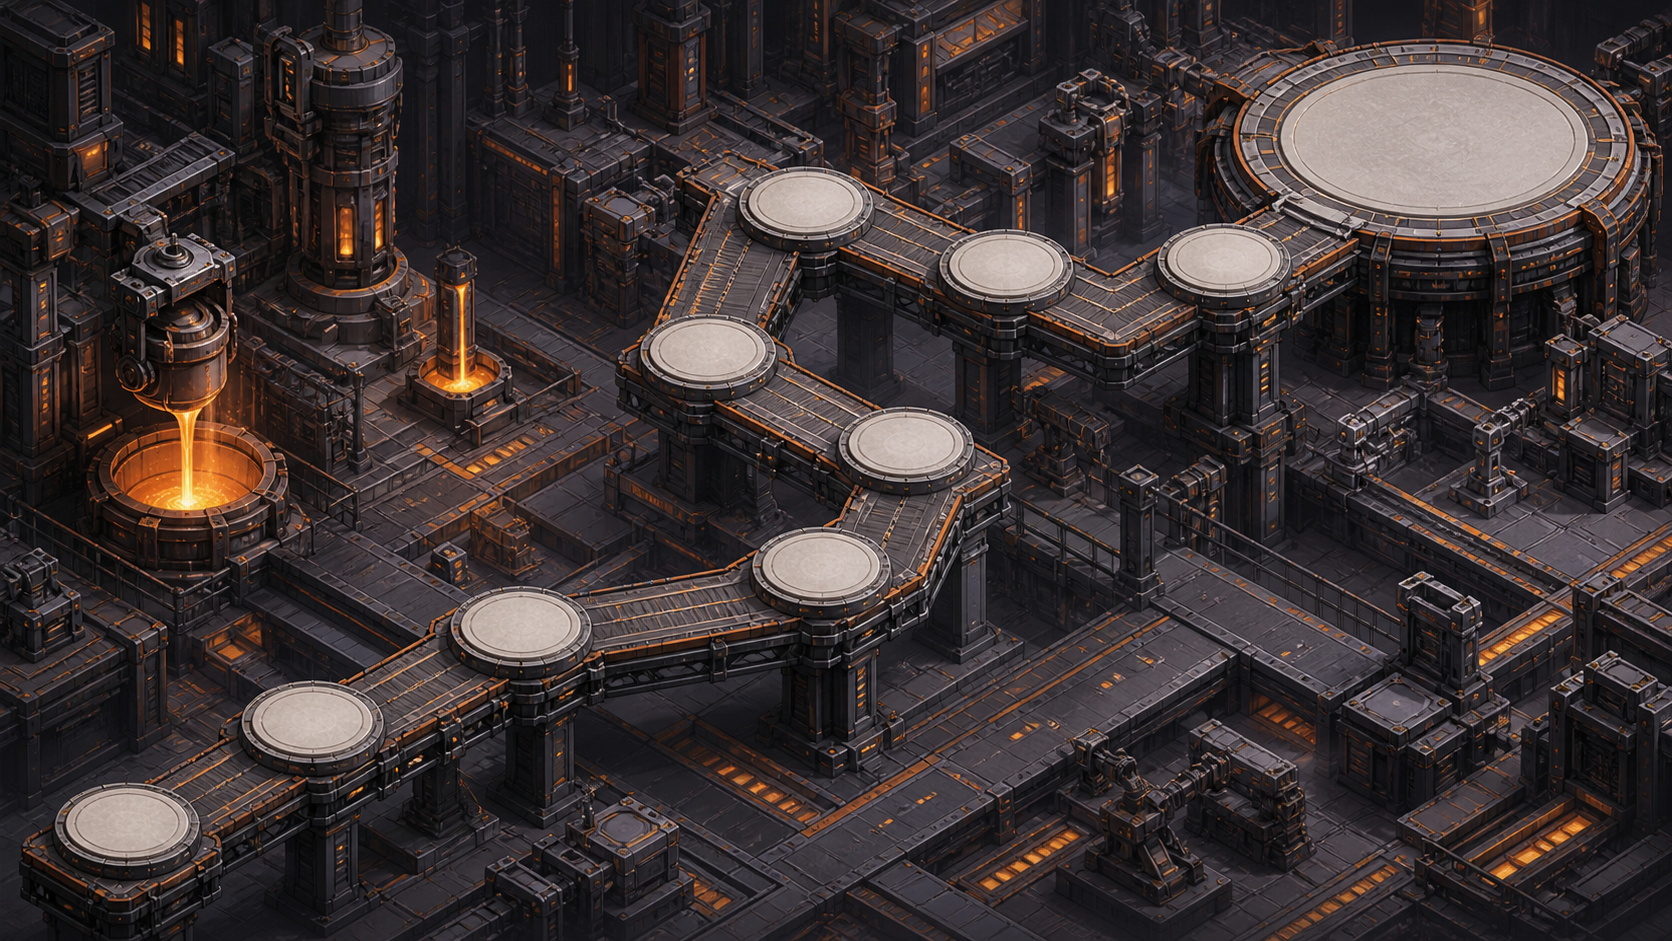
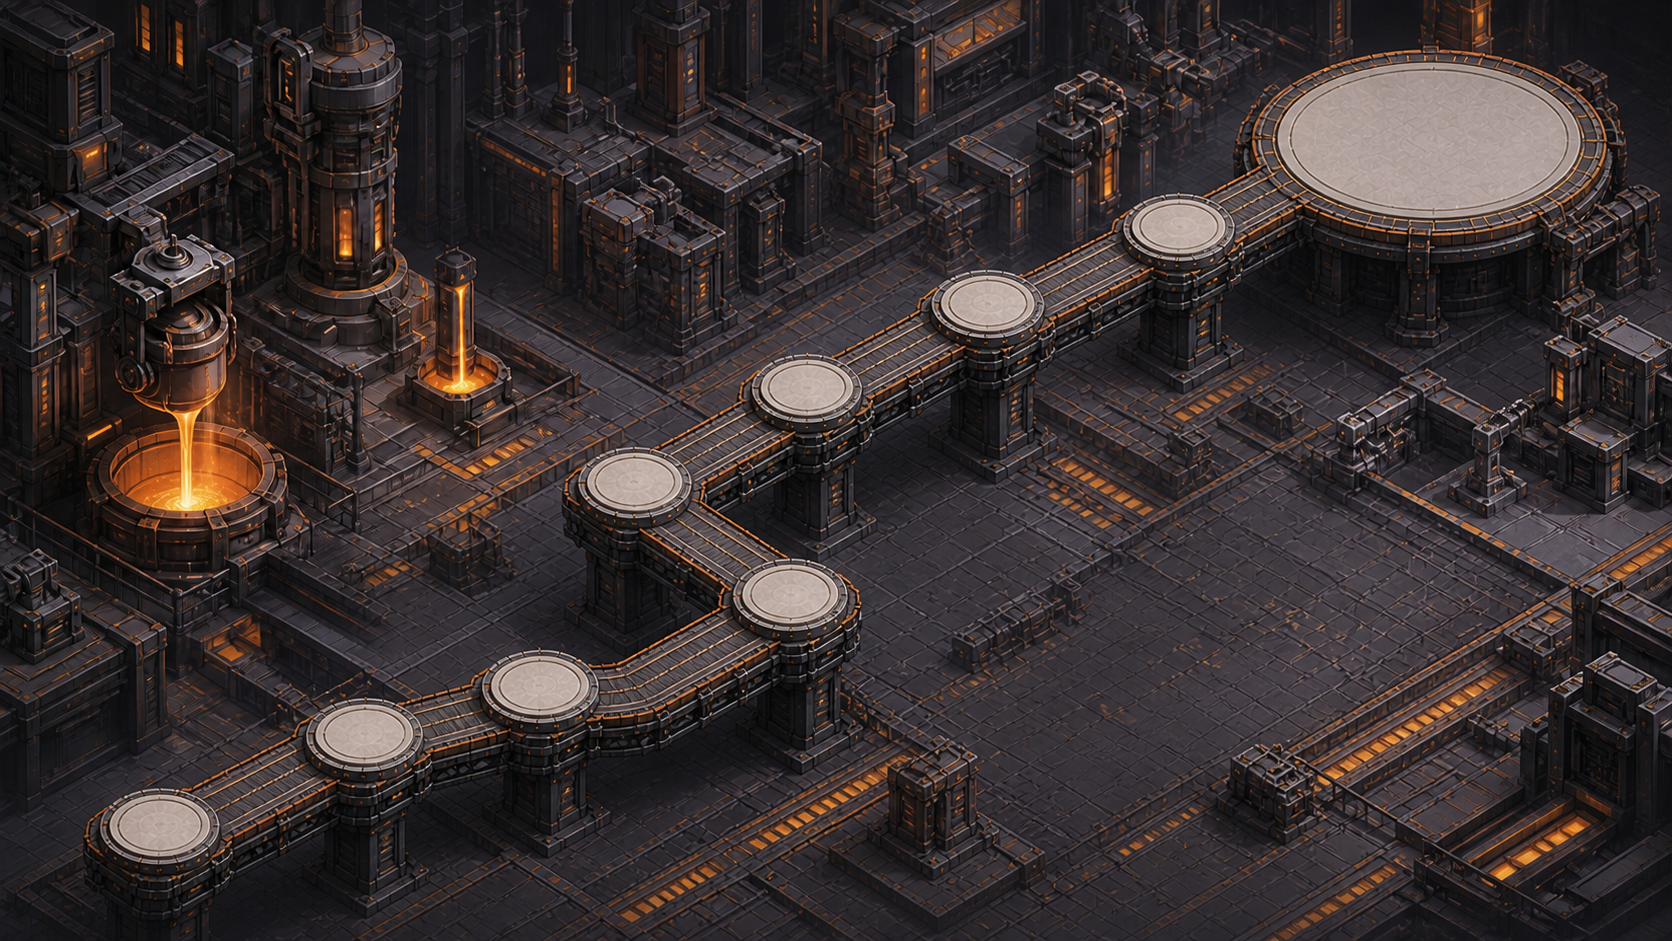
fix(us07): align campaign maps with level progression

diff --git a/src/components/campaign/campaign-map.tsx b/src/components/campaign/campaign-map.tsx
@@ -17,13 +17,13 @@ const WORLD_MAPS: Record<string, string> = Object.fromEntries(
 const points = (pairs: [number, number][]): MapPoint[] =>
   pairs.map(([left, top]) => ({ left, top }));
 const WORLD_POINTS: Record<string, MapPoint[]> = {
-  "bachelor-1": points([[14,82],[27,72],[37,63],[48,54],[58,44],[71,30],[87,17]]),
-  "bachelor-2": points([[12,81],[22,72],[33,63],[43,55],[53,48],[62,40],[73,31],[85,16]]),
-  "bachelor-3": points([[16,80],[30,84],[43,73],[56,66],[67,56],[54,43],[42,49],[57,34],[82,16]]),
-  "bachelor-4": points([[9,86],[18,76],[31,67],[48,59],[54,47],[42,37],[48,22],[61,28],[74,25],[87,14]]),
-  "bachelor-5": points([[10,83],[22,70],[33,62],[43,56],[53,49],[62,43],[70,36],[76,29],[82,23],[87,17],[91,13]]),
-  "master-1": points([[12,83],[27,86],[42,76],[57,75],[71,68],[63,57],[51,51],[37,57],[26,59],[39,43],[52,33],[82,15]]),
-  "master-2": points([[12,84],[25,84],[35,75],[46,68],[56,61],[67,59],[75,50],[63,46],[50,42],[38,52],[29,61],[48,34],[84,16]]),
+  "bachelor-1": points([[14.5,82.5],[26.7,70.3],[38.6,59.1],[51.8,49.1],[63.9,38.1],[86.7,18.9]]),
+  "bachelor-2": points([[12.1,78.7],[24,69.4],[35.2,61],[46.3,52.1],[56.2,43.6],[66.4,35.4],[81.9,22.8]]),
+  "bachelor-3": points([[11.5,89],[21.5,80.9],[32.5,71.6],[41.9,61.9],[50.5,52],[59.8,41.9],[67.2,30.9],[83.4,15.6]]),
+  "bachelor-4": points([[8.4,87.1],[21.6,77.9],[32.6,72.6],[46.8,62.8],[38,51.4],[48.3,41.5],[59,32],[70.2,23.5],[85.5,13.8]]),
+  "bachelor-5": points([[16,80],[21.9,67.7],[30.7,58.3],[40.8,53.3],[50.2,61.5],[59.7,57.2],[54.1,45.6],[58.7,34.9],[67.6,28.4],[85.5,18.5]]),
+  "master-1": points([[6.4,85.9],[13.4,78.4],[21.1,70.6],[28.5,63.2],[36,56.2],[43.2,50.3],[50.4,44.4],[57.8,38.3],[65.4,32.2],[73.1,26.4],[86.4,16.7]]),
+  "master-2": points([[4.8,92.7],[10.5,83.5],[17.5,75.4],[24.2,67.8],[31.6,61.1],[38.9,55.3],[46.6,50],[53.9,44.5],[61.1,38.2],[67.4,31.7],[75,27.1],[85.2,14.6]]),
   doctorat: points([[17,78],[34,64],[49,51],[63,40],[75,29],[87,16]]),
 };
 
